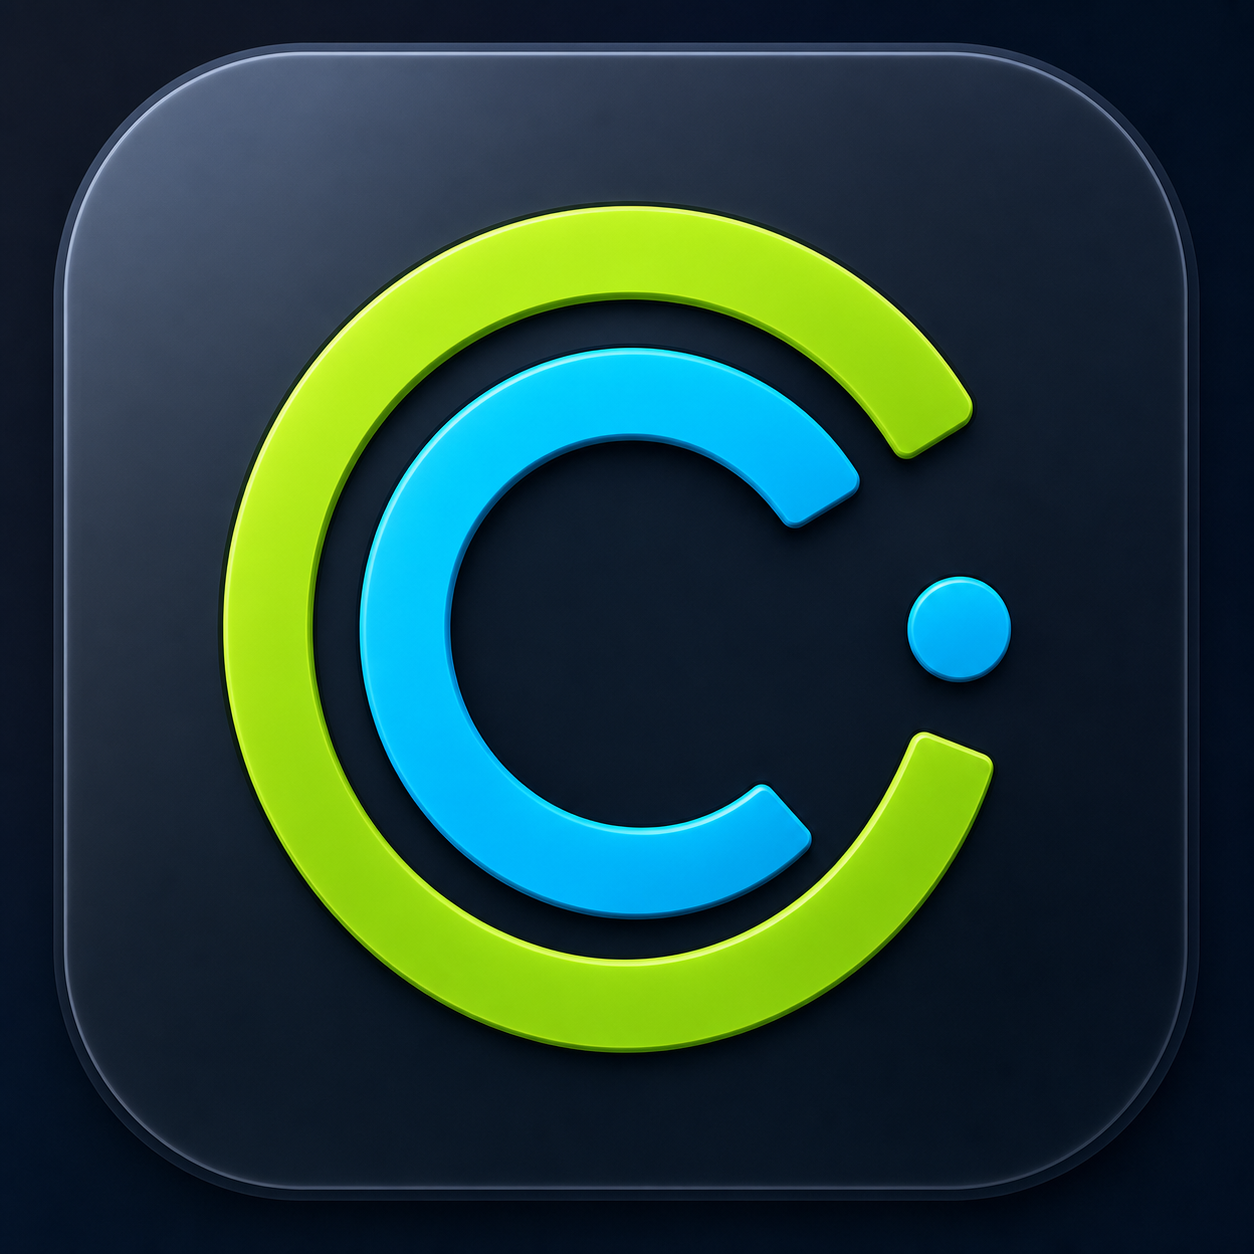
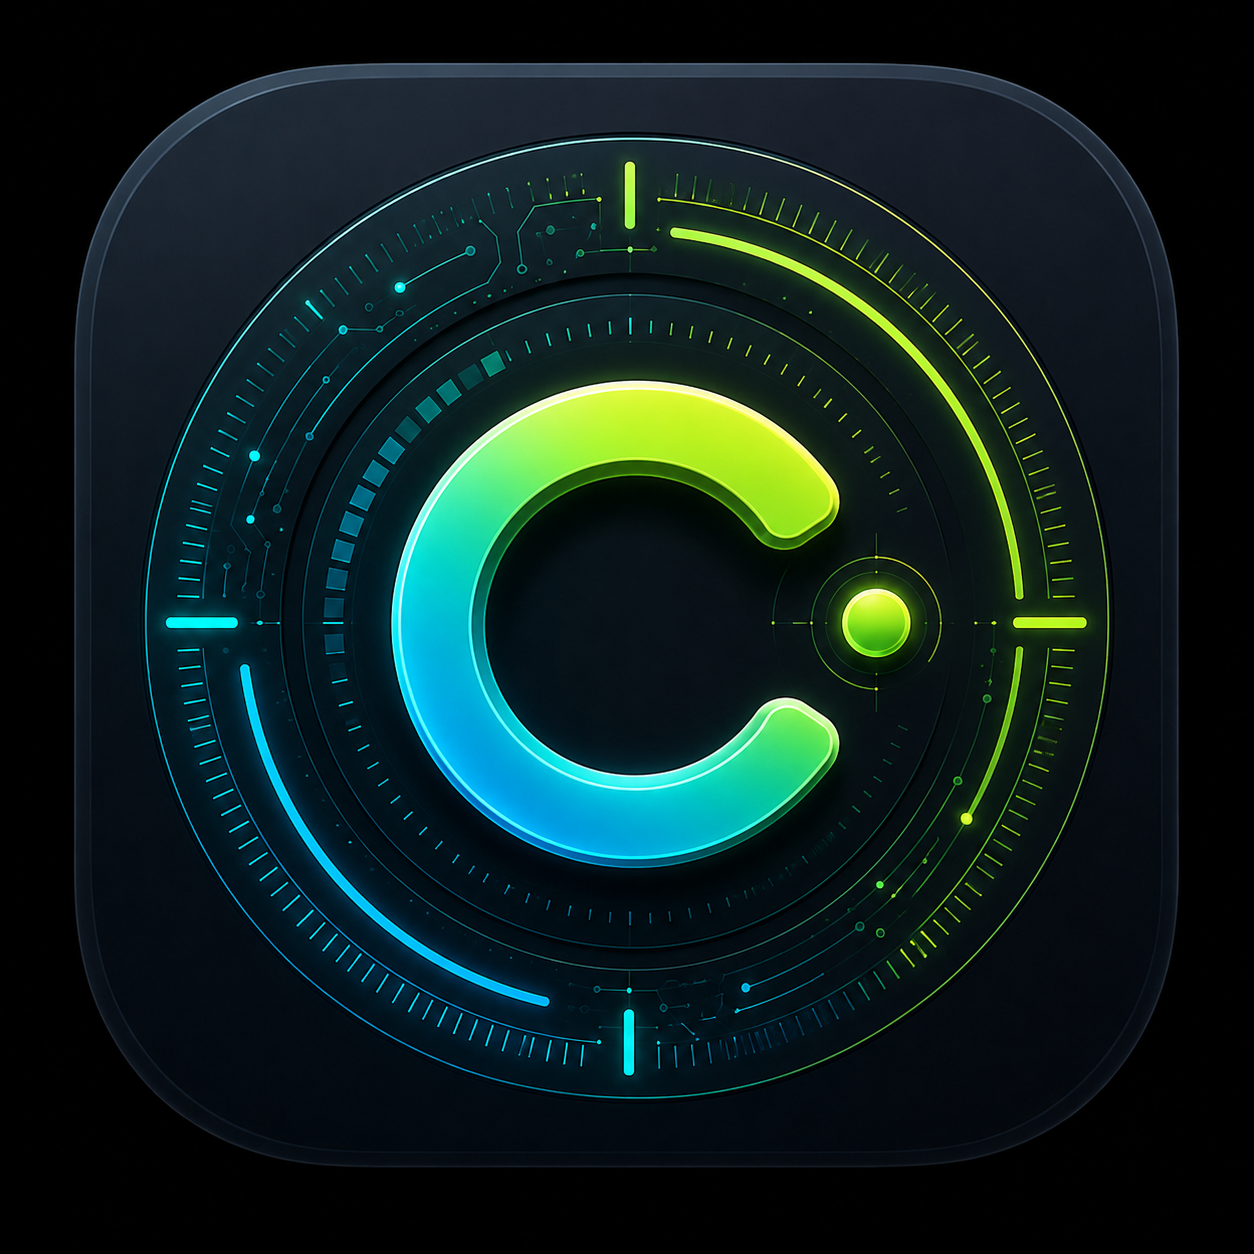
Refresh Codexcator app branding

diff --git a/App/Views/MenuBarPanelView.swift b/App/Views/MenuBarPanelView.swift
@@ -45,9 +45,10 @@ struct MenuBarPanelView: View {
 
     private var header: some View {
         HStack(spacing: 10) {
-            Image(nsImage: appIconImage)
+            Image(nsImage: appMarkImage)
                 .resizable()
                 .interpolation(.high)
+                .scaledToFit()
                 .frame(width: 36, height: 36)
                 .accessibilityHidden(true)
 
@@ -64,10 +65,13 @@ struct MenuBarPanelView: View {
         .frame(maxWidth: .infinity, alignment: .leading)
     }
 
-    private var appIconImage: NSImage {
+    private var appMarkImage: NSImage {
+        if let bundledImage = NSImage(named: "AppMark") {
+            return bundledImage
+        }
         if
             let previewURL = Bundle.main.url(
-                forResource: "AppIcon-master",
+                forResource: "AppMark-master",
                 withExtension: "png"
             ),
             let previewImage = NSImage(contentsOf: previewURL)

diff --git a/design-qa.md b/design-qa.md
@@ -16,7 +16,7 @@
 - Uses macOS semantic text, separator, and track colors over a system material surface so the panel follows Light and Dark appearance automatically.
 - Keeps the cyan/green quota distinction with softer system teal and system green accents instead of fixed neon colors.
 - Uses native Liquid Glass for the menu panel and footer actions on macOS 26+, with the adaptive material surface retained as the macOS 14–15 fallback.
-- Places the bundled 36-point App Icon at the leading edge of the popover title so the app identity is visible without enlarging the menu-bar surface.
+- Places a dedicated transparent 36-point circular HUD mark at the leading edge of the popover title, retaining the App Icon's concentric rings, ticks, circuitry, cyan/lime arcs, central C, and target dot without carrying its outer rounded-square plate into the Liquid Glass surface.
 - Gives the subscription plan a compact indigo-to-cyan-to-mint gradient badge with adaptive text, border, and shadow instead of stacking a second glass surface inside the native popover.
 - Preserves quota dividers, progress-bar rhythm, reset-credit grouping, footer alignment, and compact menu-bar presentation.
 - Quota rows expose combined accessibility labels and avoid duplicate VoiceOver output.
@@ -35,7 +35,22 @@
 - The popover uses a compact 340-point desktop width, with reset expiries arranged in a two-column grid and the reset-count badge trailing the section title.
 - Quota percentage text uses adaptive semantic colors: calibrated Display P3 green at 50–100% in both appearances, system orange at 20–49%, and system red below 20%. Progress bars use a proportional fixed scale with red covering 0–20%, warning orange covering 20–50%, and green covering 50–100%; short center-aligned markers identify the 20% and 50% boundaries without cutting through the full bar.
 
-## Latest visual comparison — 2026-07-30 quota thresholds
+## Latest visual comparison — 2026-08-06 App Icon and transparent header mark
+
+- Source visual truth: the second generated option in ChatGPT conversation `6a73e8c0-9818-83ee-b141-66aa73c4fbd9`, titled “Neon C-Ring Sci-Fi HUD Icon.”
+- Full App Icon master: `Design/AppIcon-master.png`; production sizes: `Assets.xcassets/AppIcon.appiconset`.
+- Transparent interface mark master: `Design/AppMark-master.png`; production image set: `Assets.xcassets/AppMark.imageset`.
+- Rendered implementations: `build/qa/implementation-en-light.png` and `build/qa/implementation-en-dark.png`.
+- Full App Icon result: the selected sci-fi HUD artwork is preserved as the application icon, including its dark rounded-square plate, neon cyan/lime C-ring, circular scale, and restrained circuitry.
+- Header result: the complete circular HUD module remains at 36 points, including the concentric rings, fine cyan/lime ticks, circuit traces and nodes, segmented blocks, long luminous arcs, cardinal markers, central C, and target dot. Only the outer rounded-square App Icon plate and exterior shadow are removed.
+- Light appearance: the cyan lower arc and lime upper arc remain distinct against bright glass; transparent corners blend cleanly into the panel.
+- Dark appearance: the same mark remains crisp without restoring a dark backing tile; its highlights do not flatten into the title or plan badge.
+- Small-size result: the complete App Icon remains recognizable at 16 pixels. The header image set uses 256 px and 512 px source renditions so the full HUD detail downscales cleanly at 36 points on Retina displays.
+- Correction history: the first transparent header attempt simplified the artwork to a C and target dot and therefore dropped the source's fine lines. That attempt was rejected and replaced with the complete circular HUD extraction shown in the final Light/Dark previews.
+
+final result: passed
+
+## Previous visual comparison — 2026-07-30 quota thresholds
 
 - Source visual truth: `/var/folders/my/jy81s0xx5vj3hzv9yqz4cxkm0000gn/T/codex-clipboard-da528270-e4ce-4301-981a-31baa4a4f896.png`.
 - Rendered implementations: `build/qa/implementation-en-light.png` and `build/qa/implementation-en-dark.png`.
@@ -68,4 +83,7 @@ final result: passed
 
 - Master artwork: `/Users/willhsu/Documents/CodexIndicator/Design/AppIcon-master.png`
 - Production asset catalog: `/Users/willhsu/Documents/CodexIndicator/Assets.xcassets/AppIcon.appiconset`
-- The cyan/lime dual-gauge mark remains recognizable at 16 px, uses no text or third-party logo, and preserves safe padding for macOS rounded-square masking.
+- Header mark master: `/Users/willhsu/Documents/CodexIndicator/Design/AppMark-master.png`
+- Header image set: `/Users/willhsu/Documents/CodexIndicator/Assets.xcassets/AppMark.imageset`
+- The selected cyan/lime sci-fi HUD icon remains recognizable at 16 px, uses no text or third-party logo, and preserves safe padding for macOS rounded-square masking.
+- The header image set has a real alpha channel and intentionally excludes the App Icon's black plate.
